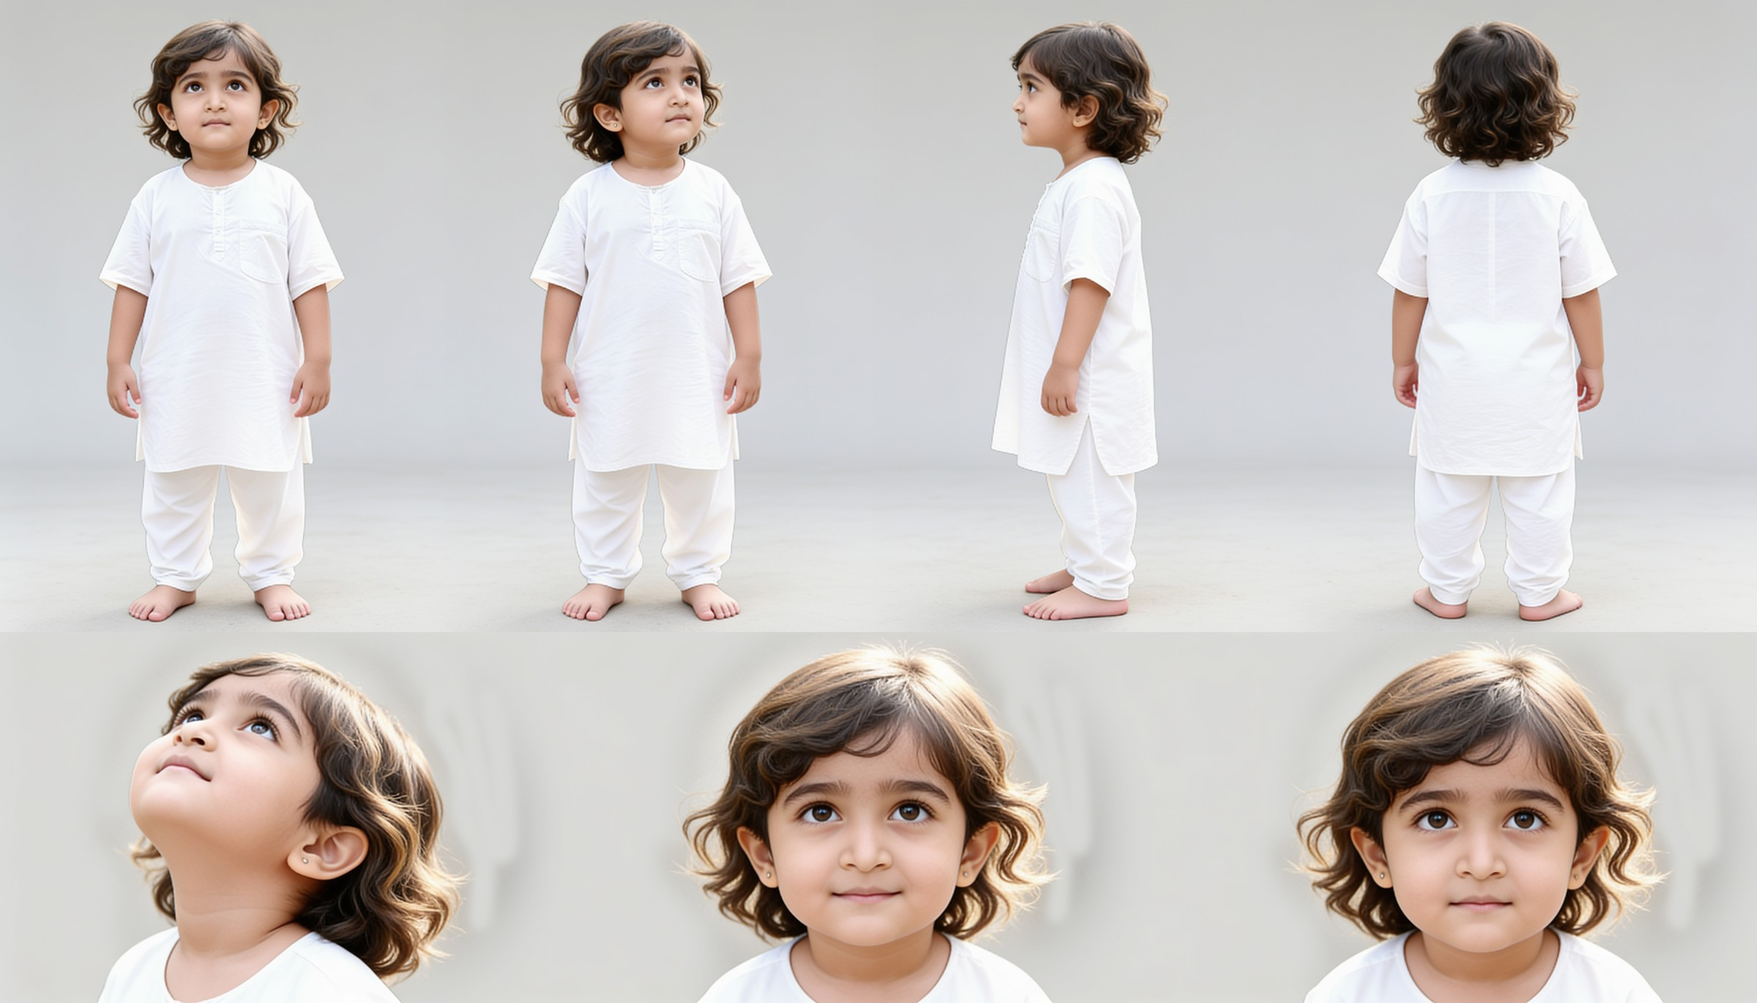
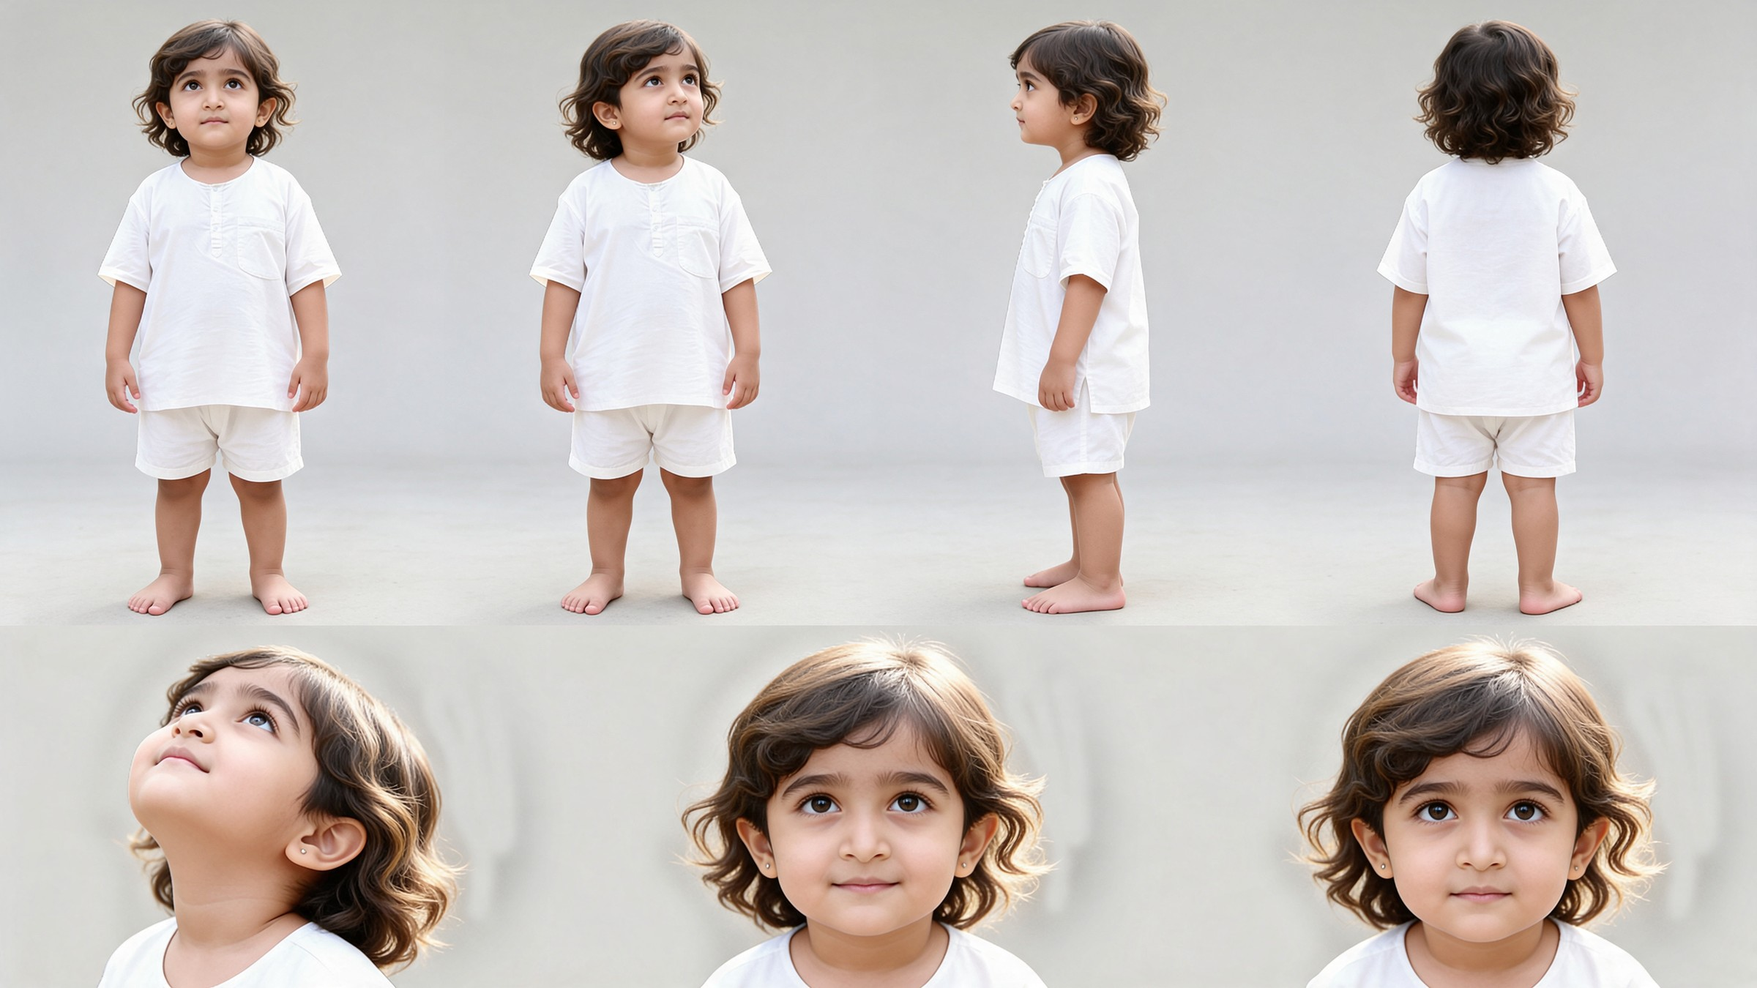
Opening v3: toddler feet and half-pants, voice-forward mix, newer voice model
Claude-Session: https://claude.ai/code/session_01YQtjKVcK3jNpP91q1LcFWr

diff --git a/documentaries/laukik-alaukik/index.html b/documentaries/laukik-alaukik/index.html
@@ -210,11 +210,11 @@ td:first-child { white-space: normal; min-width: 9rem; }
 </div>
 <div class="rules">
 <div><h3>भाग 1 · धरती का कैमरा</h3><ol><li><span>कैमरा बालक की आँख से ऊँचा कभी नहीं जाता: 90 सेमी। बड़ा होने पर 150 सेमी।</span></li><li><span>सिर्फ़ ज़मीन के समानांतर गति: डॉली, मोटर-चालित स्लाइडर, स्टेडीकैम। न क्रेन, न ड्रोन, न हैंडहेल्ड।</span></li><li><span>क्षितिज हमेशा फ़्रेम के ऊपरी तिहाई में: ज़मीन ज़्यादा, आसमान कम।</span></li><li><span>हर अध्याय पैरों के एक शॉट से शुरू होता है।</span></li><li><span>हर बचपन का अध्याय पुस्तक के मूल रेखाचित्र से खुलता है, जो जीवित दृश्य में बदल जाता है।</span></li><li><span>पुराने, नरम कोटिंग वाले 2x एनामॉर्फ़िक लेंस, 35mm ग्रेन, 24 fps। काँटे और धूल के लिए 96 से 1000 fps।</span></li><li><span>पहली बार कैमरा ऊपर उठता है अंतिम दृश्य में। वहीं क्षितिज नीचे उतरता है।</span></li></ol></div>
-<div><h3>भाग 2 · आकाश का कैमरा</h3><ol><li><span>कैमरा सिर्फ़ ऊपर-नीचे और आगे-पीछे चलता है। दाएँ-बाएँ पैन कभी नहीं।</span></li><li><span>पूरा आरोहण एक अटूट शॉट जैसा दिखता है। कट सफ़ेद और काले क्षणों में छिपे हैं।</span></li><li><span>हर पड़ाव पर पिछला पड़ाव एक बिंदु बनकर फ़्रेम में टिका रहता है, ताकि पैमाना कभी न खोए।</span></li><li><span>साफ़, आधुनिक 2x एनामॉर्फ़िक लेंस। क्षितिज फ़्रेम से ग़ायब।</span></li><li><span>ध्वनि ट्रेलर जैसी घनी: व्हूश, राइज़र, बूम। और तीन जगह पूरा मौन।</span></li><li><span>विज्ञान के तथ्य कथन में नहीं, स्क्रीन पर छोटे अक्षरों में आते हैं, ताकि अनुभव-कथन और मापा हुआ तथ्य कभी न घुलें।</span></li></ol></div>
+<div><h3>भाग 2 · आकाश का कैमरा</h3><ol><li><span>कैमरा सिर्फ़ ऊपर-नीचे और आगे-पीछे चलता है। दाएँ-बाएँ पैन कभी नहीं।</span></li><li><span>पूरा आरोहण एक अटूट शॉट जैसा दिखता है। कट सफ़ेद और काले क्षणों में छिपे हैं।</span></li><li><span>हर पड़ाव पर पिछला पड़ाव एक बिंदु बनकर फ़्रेम में टिका रहता है, ताकि पैमाना कभी न खोए।</span></li><li><span>साफ़, आधुनिक 2x एनामॉर्फ़िक लेंस। क्षितिज फ़्रेम से ग़ायब।</span></li><li><span>ध्वनि ट्रेलर जैसी घनी: व्हूश, राइज़र, बूम। और तीन जगह पूरा मौन।</span></li><li><span>अंतरिक्ष के रंग: गहरा काला और नील, तारों की ठंडी सफ़ेद रोशनी। सफ़ेद प्रकाश चलेगा; सुनहरी चमक नहीं।</span></li><li><span>विज्ञान के तथ्य कथन में नहीं, स्क्रीन पर छोटे अक्षरों में आते हैं, ताकि अनुभव-कथन और मापा हुआ तथ्य कभी न घुलें।</span></li></ol></div>
 </div>
 <div><h3>बार-बार लौटने वाली छवियाँ</h3><dl class="motifs"><div><dt>पाँव</dt><dd>शिशु का अँगूठा, काँटे पर उतरता पाँव, कपड़े में लिपटे पैर, अलग-अलग पट्टियों वाली चप्पलें, पॉलिश किए जूते, फिर ध्यान में नंगे पैर। एक जीवन, सिर्फ़ पैरों से।</dd></div><div><dt>काँटा → बिंदु</dt><dd>काँटे की नोक धुँधली होकर प्रकाश का बिंदु बनती है। वही बिंदु तारा है। भाग 2 में वही उलटकर उजाले के बीच काला बिंदु और ब्लैक होल बनता है।</dd></div><div><dt>चॉक की धूल → तारे</dt><dd>भाग 1 की कक्षा में खड़िया की धूल। भाग 2 के पहले शॉट में वही धूल हवा में रुककर तारों का मैदान बन जाती है।</dd></div><div><dt>घंटी → तानपुरा</dt><dd>भोर में गाँव में घूमती राम-नाम की घंटी भाग 1 का सुर है। भाग 2 में वही स्वर तीन सप्तक नीचे उतरकर तानपुरे का आधार बनता है।</dd></div><div><dt>परम सफ़ेद</dt><dd>शुद्ध सफ़ेद रोशनी भाग 1 में सिर्फ़ तीन बार आती है: आधी रात का शिशु, बारह घंटे का ध्यान, छह जनवरी। HDR में सबसे उजला सफ़ेद पूरी सीरीज़ में एक ही बार, “बेहद” पर।</dd></div></dl></div>
 <div><h3>चेहरे का नियम</h3><p class="face">बापूजी का चेहरा कभी AI से नहीं बनाया जाएगा। वह केवल असली तस्वीरों और आश्रम के असली फ़ुटेज में दिखते हैं; उन तस्वीरों पर सिर्फ़ कैमरा चलता है, चेहरा नहीं बदलता। पुनर्रचित दृश्यों में बालक और युवक की सिर्फ़ पीठ, हाथ, पैर, आँखें या सिल्हूट आते हैं।</p></div>
-<div><h3>बाल-पात्र</h3><p class="para">बाल-पात्र वही बच्चा है जिसकी तस्वीर आपने दी, बिना किसी बदलाव के: वही उम्र (लगभग ढाई साल), वही गोल चेहरा, हल्के भूरे घुँघराले बाल कंधे तक, हल्की आँखें, गोरा रंग, कान में छोटी बाली। कैरेक्टर शीट Seedream 4.5 से बनी है और हर दृश्य में संदर्भ के रूप में जाएगी। पहनावा तस्वीर जैसा ही: सफ़ेद, बिना कॉलर का कुर्ता और पायजामा, नंगे पाँव, गले में कुछ नहीं।</p></div>
+<div><h3>बाल-पात्र</h3><p class="para">बाल-पात्र वही बच्चा है जिसकी तस्वीर आपने दी, बिना किसी बदलाव के: वही उम्र (लगभग ढाई साल), वही गोल चेहरा, हल्के भूरे घुँघराले बाल कंधे तक, हल्की आँखें, गोरा रंग, कान में छोटी बाली। पहनावा: सफ़ेद, बिना कॉलर का कुर्ता और घुटने तक का सफ़ेद हाफ़ पैंट, नंगे पाँव, गले में कुछ नहीं। पाँव और टाँगें ढाई साल के बच्चे जैसी: छोटी, नरम, गोल-मटोल। हर दृश्य में वह उसी जगह की धूप, छाया और धूल में दिखता है, अलग से रखा हुआ नहीं। कैरेक्टर शीट Seedream के सबसे नए मॉडल से बनी है और हर शॉट में संदर्भ के रूप में जाती है।</p></div>
 <div><h3>नया दर्शक भी समझे, और देखता रहे</h3><ul class="sound"><li>पहले पंद्रह सेकंड में ही फ़िल्म का सवाल सामने आ जाता है: तपती धूप में खड़े बालक की शिकायत।</li><li>हर भाग अपने में पूरा है। भाग 2 के पहले दस सेकंड भाग 1 का सवाल दोहराते हैं, ताकि नया दर्शक भी साथ चले।</li><li>पैमाने की सीढ़ी: फ़्रेम के कोने में पाँच पायदानों का छोटा ग्राफ़िक (ब्रह्मांड → महाब्रह्मांड → परम महाब्रह्मांड → मल्टीवर्स → बेहद)। हम जिस पड़ाव पर हैं, वही पायदान जलता है।</li><li>हर नया शब्द पहली बार आने पर स्क्रीन पर लिखा आता है, और उसके नीचे आम भाषा में एक पंक्ति। जैसे: “ब्रह्मांड (बापूजी की भाषा में): एक सूर्य और उसके ग्रह।”</li><li>हर चालीस से साठ सेकंड पर एक मोड़: कोई सवाल, कोई ख़ामोशी, या पैमाने की छलाँग। कोई दृश्य सवा मिनट से लंबा नहीं।</li><li>अंग्रेज़ी सबटाइटल शुरू से, ताकि हिंदी न जानने वाला दर्शक भी देख सके।</li></ul></div>
 <div><h3>बापूजी की असली तस्वीरें कहाँ आएँगी</h3><div class="scroll"><table><thead><tr><th>तस्वीर</th><th>फ़ाइल</th><th>फ़िल्म में जगह</th></tr></thead><tbody><tr><td>सफ़ेद कुर्ते में ऊपर देखता नन्हा बालक (कटआउट)</td><td>Untitled-6.png</td><td>बाल-पात्र का मुख्य संदर्भ। भाग 1 का शीर्षक-दृश्य, और भाग 2 में “काला बिंदु” तथा अंतिम दृश्य के प्रतीकात्मक शॉट।</td></tr><tr><td>युवावस्था का चित्र, चेक की कमीज़ और टाई में</td><td>IMG_20220426_012151-1.jpg</td><td>भाग 1, “दस पैसे”: अहमदाबाद और पढ़ाई के वर्ष।</td></tr><tr><td>सूट-टाई में, दो लोगों के साथ पुरानी तस्वीर</td><td>IMG-20251126-WA0080.jpg</td><td>भाग 1, “दशरथ पटेल एंड कंपनी”: वकालत के वर्ष।</td></tr><tr><td>सफ़ेद कुर्ते में, बगीचे में खड़े</td><td>Picsart_24-02-05_19-53-23-567.jpg, Picsart_24-02-23_12-34-26-123.jpg</td><td>भाग 1 की अंतिम पंक्ति “और फिर, बापूजी”; भाग 2 का अंतिम दृश्य। सबसे ऊँची गुणवत्ता की तस्वीरें।</td></tr><tr><td>ऊनी टोपी और स्वेटर में, फूलों के बीच</td><td>IMG-20250212-WA0004.jpg, IMG-20250212-WA0008.jpg, IMG-20260818-WA0034.jpg, IMG-20260818-WA0035.jpg</td><td>भाग 2, “विनाश नहीं”: आज के बापूजी, सहज और पास के।</td></tr><tr><td>पॉडकास्ट स्टूडियो में, माइक के सामने</td><td>IMG-20250205-WA0011.jpg, IMG-20250205-WA0010.jpg</td><td>भाग 2, “पीछे की क़तार”: दो करोड़ श्रोताओं वाली पंक्ति पर।</td></tr><tr><td>“Life in Multiverse” पुस्तक के साथ</td><td>IMG-20251224-WA0114.jpg, IMG-20240302-WA0009.jpg</td><td>भाग 2, “बेहद” से ठीक पहले: मल्टीवर्स का ज्ञान पुस्तक के रूप में।</td></tr><tr><td>पुराने वीडियो का फ़्रेम: बैठे हुए श्रोता</td><td>IMG-20260104-WA0031.jpg</td><td>भाग 2, “हवाई ज्ञान”: शुरुआती दिनों की कक्षा का असली दृश्य।</td></tr><tr><td>आश्रम: लॉन के पार सफ़ेद भवन (तीन कोण)</td><td>IMG_0846, IMG_0847, IMG_0849</td><td>भाग 1 का अंत, “चैनपुर में एक आश्रम बनाया”; भाग 2, “विनाश नहीं”।</td></tr><tr><td>आश्रम: लॉन के ऊपर सीधा सूरज</td><td>IMG_0726</td><td>भाग 2, “एक ब्रह्मांड”: आरोहण यहीं से शुरू होता है। कैमरा इसी लॉन से सूरज की ओर उठता है।</td></tr><tr><td>आश्रम: लाल फूलों के बीच से भवन</td><td>IMG_0729</td><td>भाग 2 का अंतिम दृश्य: अवरोहण के बाद, आज का आश्रम।</td></tr></tbody></table></div></div>
 <div><h3>बनाने की विधि और क्रेडिट</h3><div class="scroll"><table><thead><tr><th>विधि</th><th>कहाँ</th><th>लागत</th></tr></thead><tbody><tr><td>स्थिर चित्र (पहला फ़्रेम)</td><td>हर शॉट का पहला फ़्रेम, बाल-पात्र की कैरेक्टर शीट के संदर्भ से</td><td>50 से 65 क्रेडिट प्रति चित्र</td></tr><tr><td>AI वीडियो: Kling 2.5 (1080p)</td><td>ज़्यादातर शॉट: पहले फ़्रेम से चलती तस्वीर, 5 या 10 सेकंड</td><td>10 सेकंड = 650 क्रेडिट</td></tr><tr><td>AI वीडियो: Seedance 2.5 (1080p)</td><td>सिर्फ़ सबसे कठिन शॉट: धूल से तारे, आरोहण, प्रकाश का महासागर</td><td>10 सेकंड = 7,900 क्रेडिट</td></tr><tr><td>असली तस्वीरें और फ़ुटेज</td><td>बापूजी और आश्रम</td><td>कोई क्रेडिट नहीं</td></tr><tr><td>मोशन ग्राफ़िक्स और टाइपोग्राफ़ी</td><td>शीर्षक, अध्याय-कार्ड, पैमाने की सीढ़ी, यूट्यूब-एंडिंग</td><td>कोई क्रेडिट नहीं</td></tr><tr><td>कथन</td><td>Google की आवाज़</td><td>लगभग 20 क्रेडिट प्रति अंश</td></tr><tr><td>संगीत और ध्वनि-प्रभाव</td><td>आपकी Envato लाइब्रेरी</td><td>कोई क्रेडिट नहीं</td></tr></tbody></table></div><p class="para gapt">एक भाग में लगभग 120 शॉट हैं। ऊपर की विधि से एक भाग लगभग 80 हज़ार से 1 लाख क्रेडिट में बनता है, दोबारा बनाने की गुंजाइश समेत; दोनों भाग लगभग 2 लाख में। पूरा भाग केवल Seedance से बनाने पर यही काम 4.5 लाख का पड़ता।</p></div>

diff --git a/documentaries/laukik-alaukik/film-ki-bhasha.md b/documentaries/laukik-alaukik/film-ki-bhasha.md
@@ -26,7 +26,7 @@
 
 ## बाल-पात्र
 
-बाल-पात्र वही बच्चा है जिसकी तस्वीर आपने दी, बिना किसी बदलाव के: वही उम्र (लगभग ढाई साल), वही गोल चेहरा, हल्के भूरे घुँघराले बाल कंधे तक, हल्की आँखें, गोरा रंग, कान में छोटी बाली। कैरेक्टर शीट Seedream 4.5 से बनी है और हर दृश्य में संदर्भ के रूप में जाएगी। पहनावा तस्वीर जैसा ही: सफ़ेद, बिना कॉलर का कुर्ता और पायजामा, नंगे पाँव, गले में कुछ नहीं।
+बाल-पात्र वही बच्चा है जिसकी तस्वीर आपने दी, बिना किसी बदलाव के: वही उम्र (लगभग ढाई साल), वही गोल चेहरा, हल्के भूरे घुँघराले बाल कंधे तक, हल्की आँखें, गोरा रंग, कान में छोटी बाली। पहनावा: सफ़ेद, बिना कॉलर का कुर्ता और घुटने तक का सफ़ेद हाफ़ पैंट, नंगे पाँव, गले में कुछ नहीं। पाँव और टाँगें ढाई साल के बच्चे जैसी: छोटी, नरम, गोल-मटोल। हर दृश्य में वह उसी जगह की धूप, छाया और धूल में दिखता है, अलग से रखा हुआ नहीं। कैरेक्टर शीट Seedream के सबसे नए मॉडल से बनी है और हर शॉट में संदर्भ के रूप में जाती है।
 
 ## एक विचार: हद से बेहद
 
@@ -53,6 +53,7 @@
 - हर पड़ाव पर पिछला पड़ाव एक बिंदु बनकर फ़्रेम में टिका रहता है, ताकि पैमाना कभी न खोए।
 - साफ़, आधुनिक 2x एनामॉर्फ़िक लेंस। क्षितिज फ़्रेम से ग़ायब।
 - ध्वनि ट्रेलर जैसी घनी: व्हूश, राइज़र, बूम। और तीन जगह पूरा मौन।
+- अंतरिक्ष के रंग: गहरा काला और नील, तारों की ठंडी सफ़ेद रोशनी। सफ़ेद प्रकाश चलेगा; सुनहरी चमक नहीं।
 - विज्ञान के तथ्य कथन में नहीं, स्क्रीन पर छोटे अक्षरों में आते हैं, ताकि अनुभव-कथन और मापा हुआ तथ्य कभी न घुलें।
 
 ## बार-बार लौटने वाली छवियाँ
